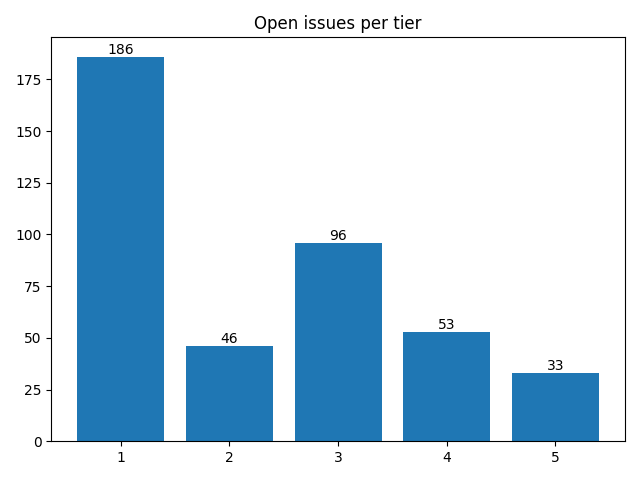
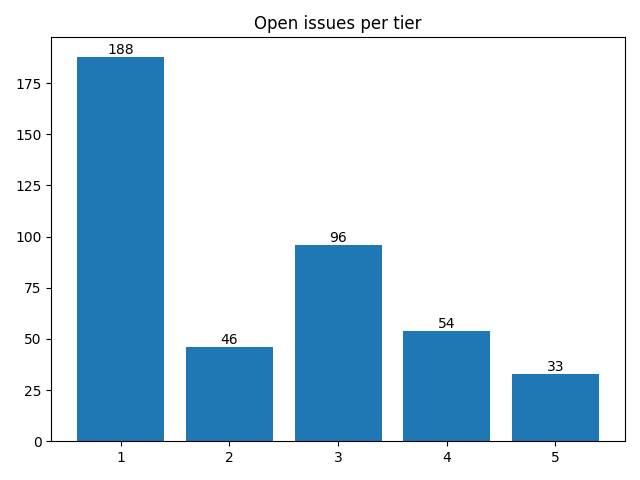
Apply automatic changes

diff --git a/docs/analytics.html b/docs/analytics.html
@@ -119,8 +119,8 @@ td .material-icons { display:inline-flex; vertical-align: top; font-size:1.1rem;
 						</tr>
 						<tr>
 							<td>Nov</td>
-							<td>0</td>
-							<td>0</td>
+							<td>6</td>
+							<td>3</td>
 						</tr>
 					</table>
 				</div>
@@ -140,7 +140,7 @@ td .material-icons { display:inline-flex; vertical-align: top; font-size:1.1rem;
 							<td>
 								<a href="http://github.com/notofonts/latin-greek-cyrillic/issues">latin-greek-cyrillic</a>
 							</td>
-							<td>116</td>
+							<td>117</td>
 						</tr>
 						<tr>
 							<td>
@@ -182,17 +182,17 @@ td .material-icons { display:inline-flex; vertical-align: top; font-size:1.1rem;
 							<td>
 								<a href="http://github.com/notofonts/syriac/issues">syriac</a>
 							</td>
-							<td>9</td>
+							<td>8</td>
 						</tr>
 						<tr>
 							<td>
-								<a href="http://github.com/notofonts/dives-akuru/issues">dives-akuru</a>
+								<a href="http://github.com/notofonts/bengali/issues">bengali</a>
 							</td>
 							<td>6</td>
 						</tr>
 						<tr>
 							<td>
-								<a href="http://github.com/notofonts/egyptian-hieroglyphs/issues">egyptian-hieroglyphs</a>
+								<a href="http://github.com/notofonts/dives-akuru/issues">dives-akuru</a>
 							</td>
 							<td>6</td>
 						</tr>
@@ -211,41 +211,41 @@ td .material-icons { display:inline-flex; vertical-align: top; font-size:1.1rem;
 				<tr>
 					<td>1</td>
 					<td>
-						<a href="http://github.com/notofonts/chakma/issues">chakma</a>,  						<a href="http://github.com/notofonts/chorasmian/issues">chorasmian</a>,  						<a href="http://github.com/notofonts/dogra/issues">dogra</a>,  						<a href="http://github.com/notofonts/duployan/issues">duployan</a>,  						<a href="http://github.com/notofonts/elbasan/issues">elbasan</a>,  						<a href="http://github.com/notofonts/glagolitic/issues">glagolitic</a>,  						<a href="http://github.com/notofonts/gunjala-gondi/issues">gunjala-gondi</a>,  						<a href="http://github.com/notofonts/inscriptional-pahlavi/issues">inscriptional-pahlavi</a>,  						<a href="http://github.com/notofonts/kharoshthi/issues">kharoshthi</a>,  						<a href="http://github.com/notofonts/khitan-small-script/issues">khitan-small-script</a>,  						<a href="http://github.com/notofonts/khojki/issues">khojki</a>,  						<a href="http://github.com/notofonts/khudawadi/issues">khudawadi</a>,  						<a href="http://github.com/notofonts/lao/issues">lao</a>,  						<a href="http://github.com/notofonts/limbu/issues">limbu</a>,  						<a href="http://github.com/notofonts/masaram-gondi/issues">masaram-gondi</a>,  						<a href="http://github.com/notofonts/meetei-mayek/issues">meetei-mayek</a>,  						<a href="http://github.com/notofonts/mongolian/issues">mongolian</a>,  						<a href="http://github.com/notofonts/nag-mundari/issues">nag-mundari</a>,  						<a href="http://github.com/notofonts/nko/issues">nko</a>,  						<a href="http://github.com/notofonts/nushu/issues">nushu</a>,  						<a href="http://github.com/notofonts/old-italic/issues">old-italic</a>,  						<a href="http://github.com/notofonts/old-turkic/issues">old-turkic</a>,  						<a href="http://github.com/notofonts/oriya/issues">oriya</a>,  						<a href="http://github.com/notofonts/pau-cin-hau/issues">pau-cin-hau</a>,  						<a href="http://github.com/notofonts/phags-pa/issues">phags-pa</a>,  						<a href="http://github.com/notofonts/psalter-pahlavi/issues">psalter-pahlavi</a>,  						<a href="http://github.com/notofonts/rejang/issues">rejang</a>,  						<a href="http://github.com/notofonts/saurashtra/issues">saurashtra</a>,  						<a href="http://github.com/notofonts/sogdian/issues">sogdian</a>,  						<a href="http://github.com/notofonts/sundanese/issues">sundanese</a>,  						<a href="http://github.com/notofonts/tai-tham/issues">tai-tham</a>,  						<a href="http://github.com/notofonts/takri/issues">takri</a>,  						<a href="http://github.com/notofonts/tangsa/issues">tangsa</a>,  						<a href="http://github.com/notofonts/tangut/issues">tangut</a>,  						<a href="http://github.com/notofonts/thaana/issues">thaana</a>,  						<a href="http://github.com/notofonts/toto/issues">toto</a> 
+						<a href="http://github.com/notofonts/chakma/issues">chakma</a>,  						<a href="http://github.com/notofonts/chorasmian/issues">chorasmian</a>,  						<a href="http://github.com/notofonts/dogra/issues">dogra</a>,  						<a href="http://github.com/notofonts/duployan/issues">duployan</a>,  						<a href="http://github.com/notofonts/elbasan/issues">elbasan</a>,  						<a href="http://github.com/notofonts/glagolitic/issues">glagolitic</a>,  						<a href="http://github.com/notofonts/gunjala-gondi/issues">gunjala-gondi</a>,  						<a href="http://github.com/notofonts/inscriptional-pahlavi/issues">inscriptional-pahlavi</a>,  						<a href="http://github.com/notofonts/kharoshthi/issues">kharoshthi</a>,  						<a href="http://github.com/notofonts/khitan-small-script/issues">khitan-small-script</a>,  						<a href="http://github.com/notofonts/khojki/issues">khojki</a>,  						<a href="http://github.com/notofonts/khudawadi/issues">khudawadi</a>,  						<a href="http://github.com/notofonts/lao/issues">lao</a>,  						<a href="http://github.com/notofonts/limbu/issues">limbu</a>,  						<a href="http://github.com/notofonts/masaram-gondi/issues">masaram-gondi</a>,  						<a href="http://github.com/notofonts/meetei-mayek/issues">meetei-mayek</a>,  						<a href="http://github.com/notofonts/mongolian/issues">mongolian</a>,  						<a href="http://github.com/notofonts/nag-mundari/issues">nag-mundari</a>,  						<a href="http://github.com/notofonts/nko/issues">nko</a>,  						<a href="http://github.com/notofonts/nushu/issues">nushu</a>,  						<a href="http://github.com/notofonts/old-italic/issues">old-italic</a>,  						<a href="http://github.com/notofonts/old-turkic/issues">old-turkic</a>,  						<a href="http://github.com/notofonts/oriya/issues">oriya</a>,  						<a href="http://github.com/notofonts/pau-cin-hau/issues">pau-cin-hau</a>,  						<a href="http://github.com/notofonts/phags-pa/issues">phags-pa</a>,  						<a href="http://github.com/notofonts/psalter-pahlavi/issues">psalter-pahlavi</a>,  						<a href="http://github.com/notofonts/rejang/issues">rejang</a>,  						<a href="http://github.com/notofonts/runic/issues">runic</a>,  						<a href="http://github.com/notofonts/saurashtra/issues">saurashtra</a>,  						<a href="http://github.com/notofonts/sogdian/issues">sogdian</a>,  						<a href="http://github.com/notofonts/sundanese/issues">sundanese</a>,  						<a href="http://github.com/notofonts/tai-tham/issues">tai-tham</a>,  						<a href="http://github.com/notofonts/takri/issues">takri</a>,  						<a href="http://github.com/notofonts/tangsa/issues">tangsa</a>,  						<a href="http://github.com/notofonts/tangut/issues">tangut</a>,  						<a href="http://github.com/notofonts/thaana/issues">thaana</a>,  						<a href="http://github.com/notofonts/toto/issues">toto</a> 
 					</td>
 				</tr>
 				<tr>
 					<td>2</td>
 					<td>
-						<a href="http://github.com/notofonts/adlam/issues">adlam</a>,  						<a href="http://github.com/notofonts/armenian/issues">armenian</a>,  						<a href="http://github.com/notofonts/brahmi/issues">brahmi</a>,  						<a href="http://github.com/notofonts/coptic/issues">coptic</a>,  						<a href="http://github.com/notofonts/cuneiform/issues">cuneiform</a>,  						<a href="http://github.com/notofonts/georgian/issues">georgian</a>,  						<a href="http://github.com/notofonts/khmer/issues">khmer</a>,  						<a href="http://github.com/notofonts/mandaic/issues">mandaic</a>,  						<a href="http://github.com/notofonts/music/issues">music</a>,  						<a href="http://github.com/notofonts/old-hungarian-ui/issues">old-hungarian-ui</a>,  						<a href="http://github.com/notofonts/sign-writing/issues">sign-writing</a>,  						<a href="http://github.com/notofonts/tagalog/issues">tagalog</a>,  						<a href="http://github.com/notofonts/tamil/issues">tamil</a>,  						<a href="http://github.com/notofonts/telugu/issues">telugu</a> 
+						<a href="http://github.com/notofonts/adlam/issues">adlam</a>,  						<a href="http://github.com/notofonts/armenian/issues">armenian</a>,  						<a href="http://github.com/notofonts/brahmi/issues">brahmi</a>,  						<a href="http://github.com/notofonts/coptic/issues">coptic</a>,  						<a href="http://github.com/notofonts/cuneiform/issues">cuneiform</a>,  						<a href="http://github.com/notofonts/georgian/issues">georgian</a>,  						<a href="http://github.com/notofonts/khmer/issues">khmer</a>,  						<a href="http://github.com/notofonts/mandaic/issues">mandaic</a>,  						<a href="http://github.com/notofonts/music/issues">music</a>,  						<a href="http://github.com/notofonts/old-hungarian-ui/issues">old-hungarian-ui</a>,  						<a href="http://github.com/notofonts/tagalog/issues">tagalog</a>,  						<a href="http://github.com/notofonts/tamil/issues">tamil</a>,  						<a href="http://github.com/notofonts/telugu/issues">telugu</a> 
 					</td>
 				</tr>
 				<tr>
 					<td>3</td>
 					<td>
-						<a href="http://github.com/notofonts/devanagari/issues">devanagari</a>,  						<a href="http://github.com/notofonts/inscriptional-parthian/issues">inscriptional-parthian</a>,  						<a href="http://github.com/notofonts/kaithi/issues">kaithi</a>,  						<a href="http://github.com/notofonts/manichaean/issues">manichaean</a>,  						<a href="http://github.com/notofonts/sharada/issues">sharada</a>,  						<a href="http://github.com/notofonts/siddham/issues">siddham</a>,  						<a href="http://github.com/notofonts/thai/issues">thai</a>,  						<a href="http://github.com/notofonts/tifinagh/issues">tifinagh</a>,  						<a href="http://github.com/notofonts/znamenny/issues">znamenny</a> 
+						<a href="http://github.com/notofonts/devanagari/issues">devanagari</a>,  						<a href="http://github.com/notofonts/inscriptional-parthian/issues">inscriptional-parthian</a>,  						<a href="http://github.com/notofonts/javanese/issues">javanese</a>,  						<a href="http://github.com/notofonts/kaithi/issues">kaithi</a>,  						<a href="http://github.com/notofonts/manichaean/issues">manichaean</a>,  						<a href="http://github.com/notofonts/sharada/issues">sharada</a>,  						<a href="http://github.com/notofonts/siddham/issues">siddham</a>,  						<a href="http://github.com/notofonts/thai/issues">thai</a>,  						<a href="http://github.com/notofonts/tifinagh/issues">tifinagh</a>,  						<a href="http://github.com/notofonts/znamenny/issues">znamenny</a> 
 					</td>
 				</tr>
 				<tr>
 					<td>4</td>
 					<td>
-						<a href="http://github.com/notofonts/ahom/issues">ahom</a>,  						<a href="http://github.com/notofonts/balinese/issues">balinese</a>,  						<a href="http://github.com/notofonts/batak/issues">batak</a>,  						<a href="http://github.com/notofonts/javanese/issues">javanese</a>,  						<a href="http://github.com/notofonts/old-uyghur/issues">old-uyghur</a>,  						<a href="http://github.com/notofonts/soyombo/issues">soyombo</a> 
+						<a href="http://github.com/notofonts/ahom/issues">ahom</a>,  						<a href="http://github.com/notofonts/balinese/issues">balinese</a>,  						<a href="http://github.com/notofonts/batak/issues">batak</a>,  						<a href="http://github.com/notofonts/old-uyghur/issues">old-uyghur</a>,  						<a href="http://github.com/notofonts/sign-writing/issues">sign-writing</a>,  						<a href="http://github.com/notofonts/soyombo/issues">soyombo</a> 
 					</td>
 				</tr>
 				<tr>
 					<td>5</td>
 					<td>
-						<a href="http://github.com/notofonts/bengali/issues">bengali</a>,  						<a href="http://github.com/notofonts/bhaiksuki/issues">bhaiksuki</a>,  						<a href="http://github.com/notofonts/gurmukhi/issues">gurmukhi</a>,  						<a href="http://github.com/notofonts/kawi/issues">kawi</a>,  						<a href="http://github.com/notofonts/nandinagari/issues">nandinagari</a>,  						<a href="http://github.com/notofonts/syloti-nagri/issues">syloti-nagri</a>,  						<a href="http://github.com/notofonts/tibetan/issues">tibetan</a> 
+						<a href="http://github.com/notofonts/bhaiksuki/issues">bhaiksuki</a>,  						<a href="http://github.com/notofonts/gurmukhi/issues">gurmukhi</a>,  						<a href="http://github.com/notofonts/kawi/issues">kawi</a>,  						<a href="http://github.com/notofonts/nandinagari/issues">nandinagari</a>,  						<a href="http://github.com/notofonts/syloti-nagri/issues">syloti-nagri</a>,  						<a href="http://github.com/notofonts/tibetan/issues">tibetan</a> 
 					</td>
 				</tr>
 				<tr>
 					<td>6</td>
 					<td>
-						<a href="http://github.com/notofonts/dives-akuru/issues">dives-akuru</a>,  						<a href="http://github.com/notofonts/egyptian-hieroglyphs/issues">egyptian-hieroglyphs</a>,  						<a href="http://github.com/notofonts/gujarati/issues">gujarati</a>,  						<a href="http://github.com/notofonts/kannada/issues">kannada</a>,  						<a href="http://github.com/notofonts/malayalam/issues">malayalam</a>,  						<a href="http://github.com/notofonts/modi/issues">modi</a>,  						<a href="http://github.com/notofonts/nastaliq/issues">nastaliq</a>,  						<a href="http://github.com/notofonts/old-hungarian/issues">old-hungarian</a> 
+						<a href="http://github.com/notofonts/bengali/issues">bengali</a>,  						<a href="http://github.com/notofonts/dives-akuru/issues">dives-akuru</a>,  						<a href="http://github.com/notofonts/egyptian-hieroglyphs/issues">egyptian-hieroglyphs</a>,  						<a href="http://github.com/notofonts/gujarati/issues">gujarati</a>,  						<a href="http://github.com/notofonts/kannada/issues">kannada</a>,  						<a href="http://github.com/notofonts/malayalam/issues">malayalam</a>,  						<a href="http://github.com/notofonts/modi/issues">modi</a>,  						<a href="http://github.com/notofonts/nastaliq/issues">nastaliq</a>,  						<a href="http://github.com/notofonts/old-hungarian/issues">old-hungarian</a> 
 					</td>
 				</tr>
 				<tr>
-					<td>9</td>
+					<td>8</td>
 					<td>
 						<a href="http://github.com/notofonts/syriac/issues">syriac</a> 
 					</td>
@@ -268,11 +268,13 @@ td .material-icons { display:inline-flex; vertical-align: top; font-size:1.1rem;
 						<tr>
 							<td>1</td>
 							<td>
-									<a href="http://github.com/notofonts/latin-greek-cyrillic/issues">latin-greek-cyrillic</a>: 116, 
+									<a href="http://github.com/notofonts/latin-greek-cyrillic/issues">latin-greek-cyrillic</a>: 117, 
 
 									<a href="http://github.com/notofonts/hebrew/issues">hebrew</a>: 15, 
 
 									<a href="http://github.com/notofonts/arabic/issues">arabic</a>: 11, 
+
+									<a href="http://github.com/notofonts/bengali/issues">bengali</a>: 6, 
 
 									<a href="http://github.com/notofonts/gujarati/issues">gujarati</a>: 6, 
 
@@ -281,8 +283,6 @@ td .material-icons { display:inline-flex; vertical-align: top; font-size:1.1rem;
 									<a href="http://github.com/notofonts/malayalam/issues">malayalam</a>: 6, 
 
 									<a href="http://github.com/notofonts/nastaliq/issues">nastaliq</a>: 6, 
-
-									<a href="http://github.com/notofonts/bengali/issues">bengali</a>: 5, 
 
 									<a href="http://github.com/notofonts/gurmukhi/issues">gurmukhi</a>: 5, 
 
@@ -322,7 +322,7 @@ td .material-icons { display:inline-flex; vertical-align: top; font-size:1.1rem;
 
 									<a href="http://github.com/notofonts/math/issues">math</a>: 11, 
 
-									<a href="http://github.com/notofonts/syriac/issues">syriac</a>: 9, 
+									<a href="http://github.com/notofonts/syriac/issues">syriac</a>: 8, 
 
 									<a href="http://github.com/notofonts/modi/issues">modi</a>: 6, 
 
@@ -334,7 +334,9 @@ td .material-icons { display:inline-flex; vertical-align: top; font-size:1.1rem;
 
 									<a href="http://github.com/notofonts/batak/issues">batak</a>: 4, 
 
-									<a href="http://github.com/notofonts/javanese/issues">javanese</a>: 4, 
+									<a href="http://github.com/notofonts/sign-writing/issues">sign-writing</a>: 4, 
+
+									<a href="http://github.com/notofonts/javanese/issues">javanese</a>: 3, 
 
 									<a href="http://github.com/notofonts/sharada/issues">sharada</a>: 3, 
 
@@ -345,8 +347,6 @@ td .material-icons { display:inline-flex; vertical-align: top; font-size:1.1rem;
 									<a href="http://github.com/notofonts/coptic/issues">coptic</a>: 2, 
 
 									<a href="http://github.com/notofonts/music/issues">music</a>: 2, 
-
-									<a href="http://github.com/notofonts/sign-writing/issues">sign-writing</a>: 2, 
 
 									<a href="http://github.com/notofonts/tagalog/issues">tagalog</a>: 2, 
 
@@ -424,7 +424,9 @@ td .material-icons { display:inline-flex; vertical-align: top; font-size:1.1rem;
 
 									<a href="http://github.com/notofonts/nushu/issues">nushu</a>: 1, 
 
-									<a href="http://github.com/notofonts/phags-pa/issues">phags-pa</a>: 1
+									<a href="http://github.com/notofonts/phags-pa/issues">phags-pa</a>: 1, 
+
+									<a href="http://github.com/notofonts/runic/issues">runic</a>: 1
 							</td>
 						</tr>
 						<tr>
